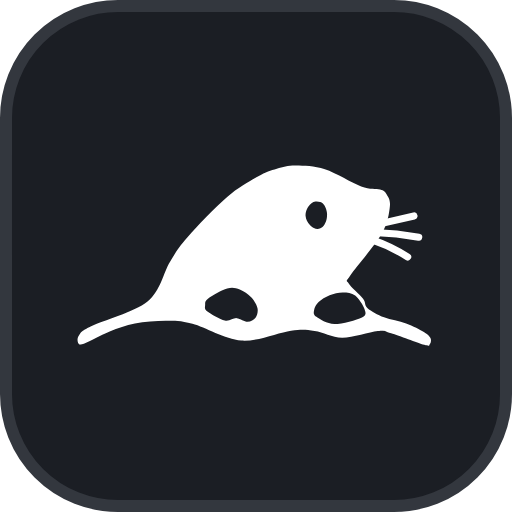
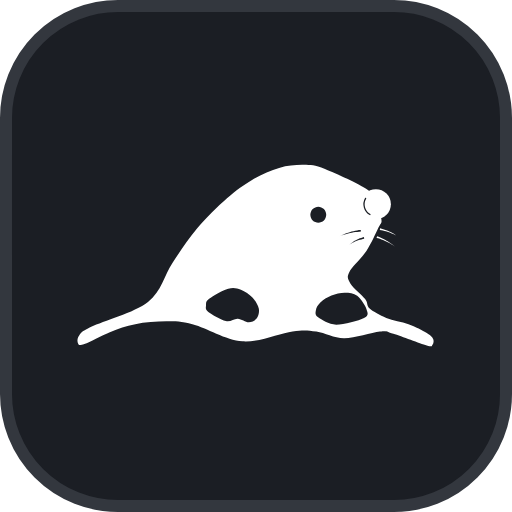
Redraw walter's mole after its full-size drawing
The back, head and face follow the drawing, stretched to the trace: a
smooth back, a long snout ending in a round nose set off by a thin
crescent, and a smaller round eye. The whiskers are fine tapered
hairlines on both sides of the snout, cut out over the face and drawn
past it, so each contrasts with what is behind it; the favicons leave
them out.

diff --git a/README.md b/README.md
@@ -23,7 +23,8 @@ For an Unraid container, paste that URL into the **Icon URL** field
 ## walter
 
 Claude for the apps at home: a mole coming up out of the ground,
-traced from its first favicon, with whiskers at its snout.
+traced from its first favicon and drawn to its full-size drawing, with a
+round nose and fine whiskers that contrast with what is behind them.
 
 | File | Use |
 | --- | --- |
